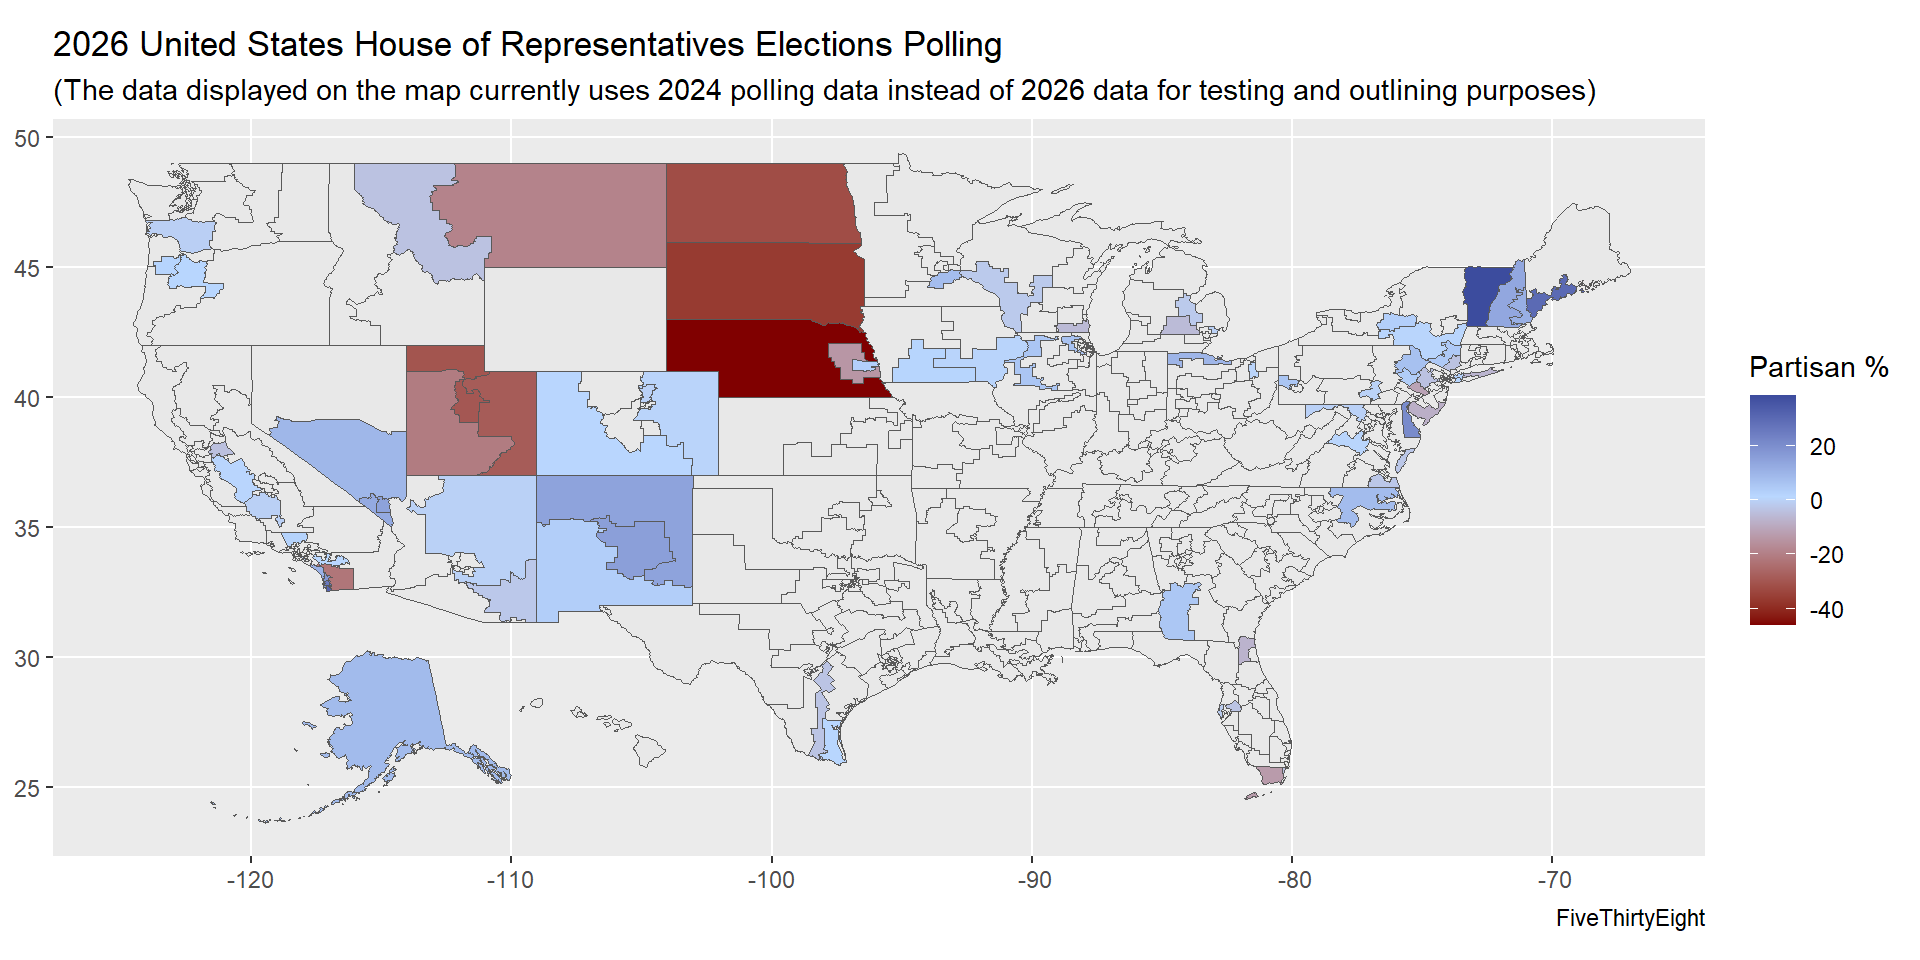
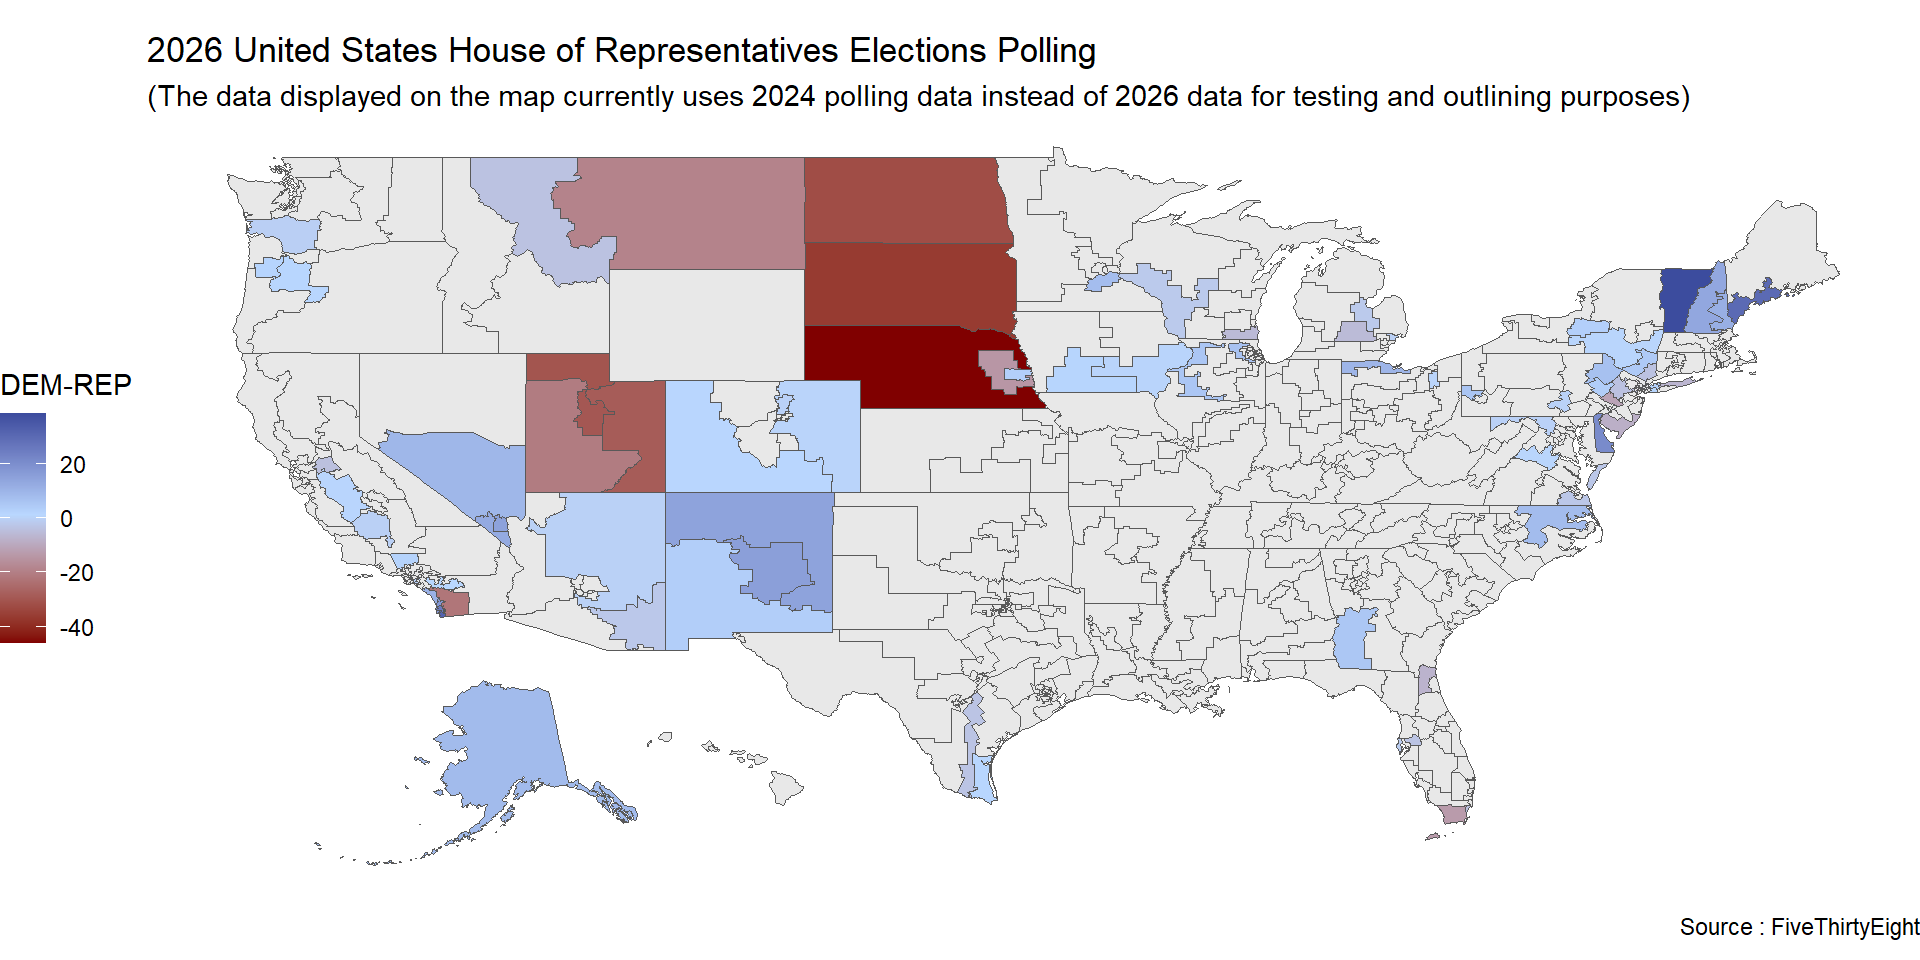
updated appearence of plot - removed background - removed uneeded lat/lon labels - moved location of the legend and change its title - clarified that the lable on the bottom is a source

diff --git a/index.html b/index.html
@@ -61,7 +61,7 @@ ul.task-list li input[type="checkbox"] {
 <header id="title-block-header" class="quarto-title-block default">
 <div class="quarto-title">
 <h1 class="title">2026 United States Midterm Election Model</h1>
-<p class="subtitle lead">Analysis of Polls and Trends</p>
+<p class="subtitle lead">Projecting Outcomes Through Polls and Trends</p>
 </div>
 
 
